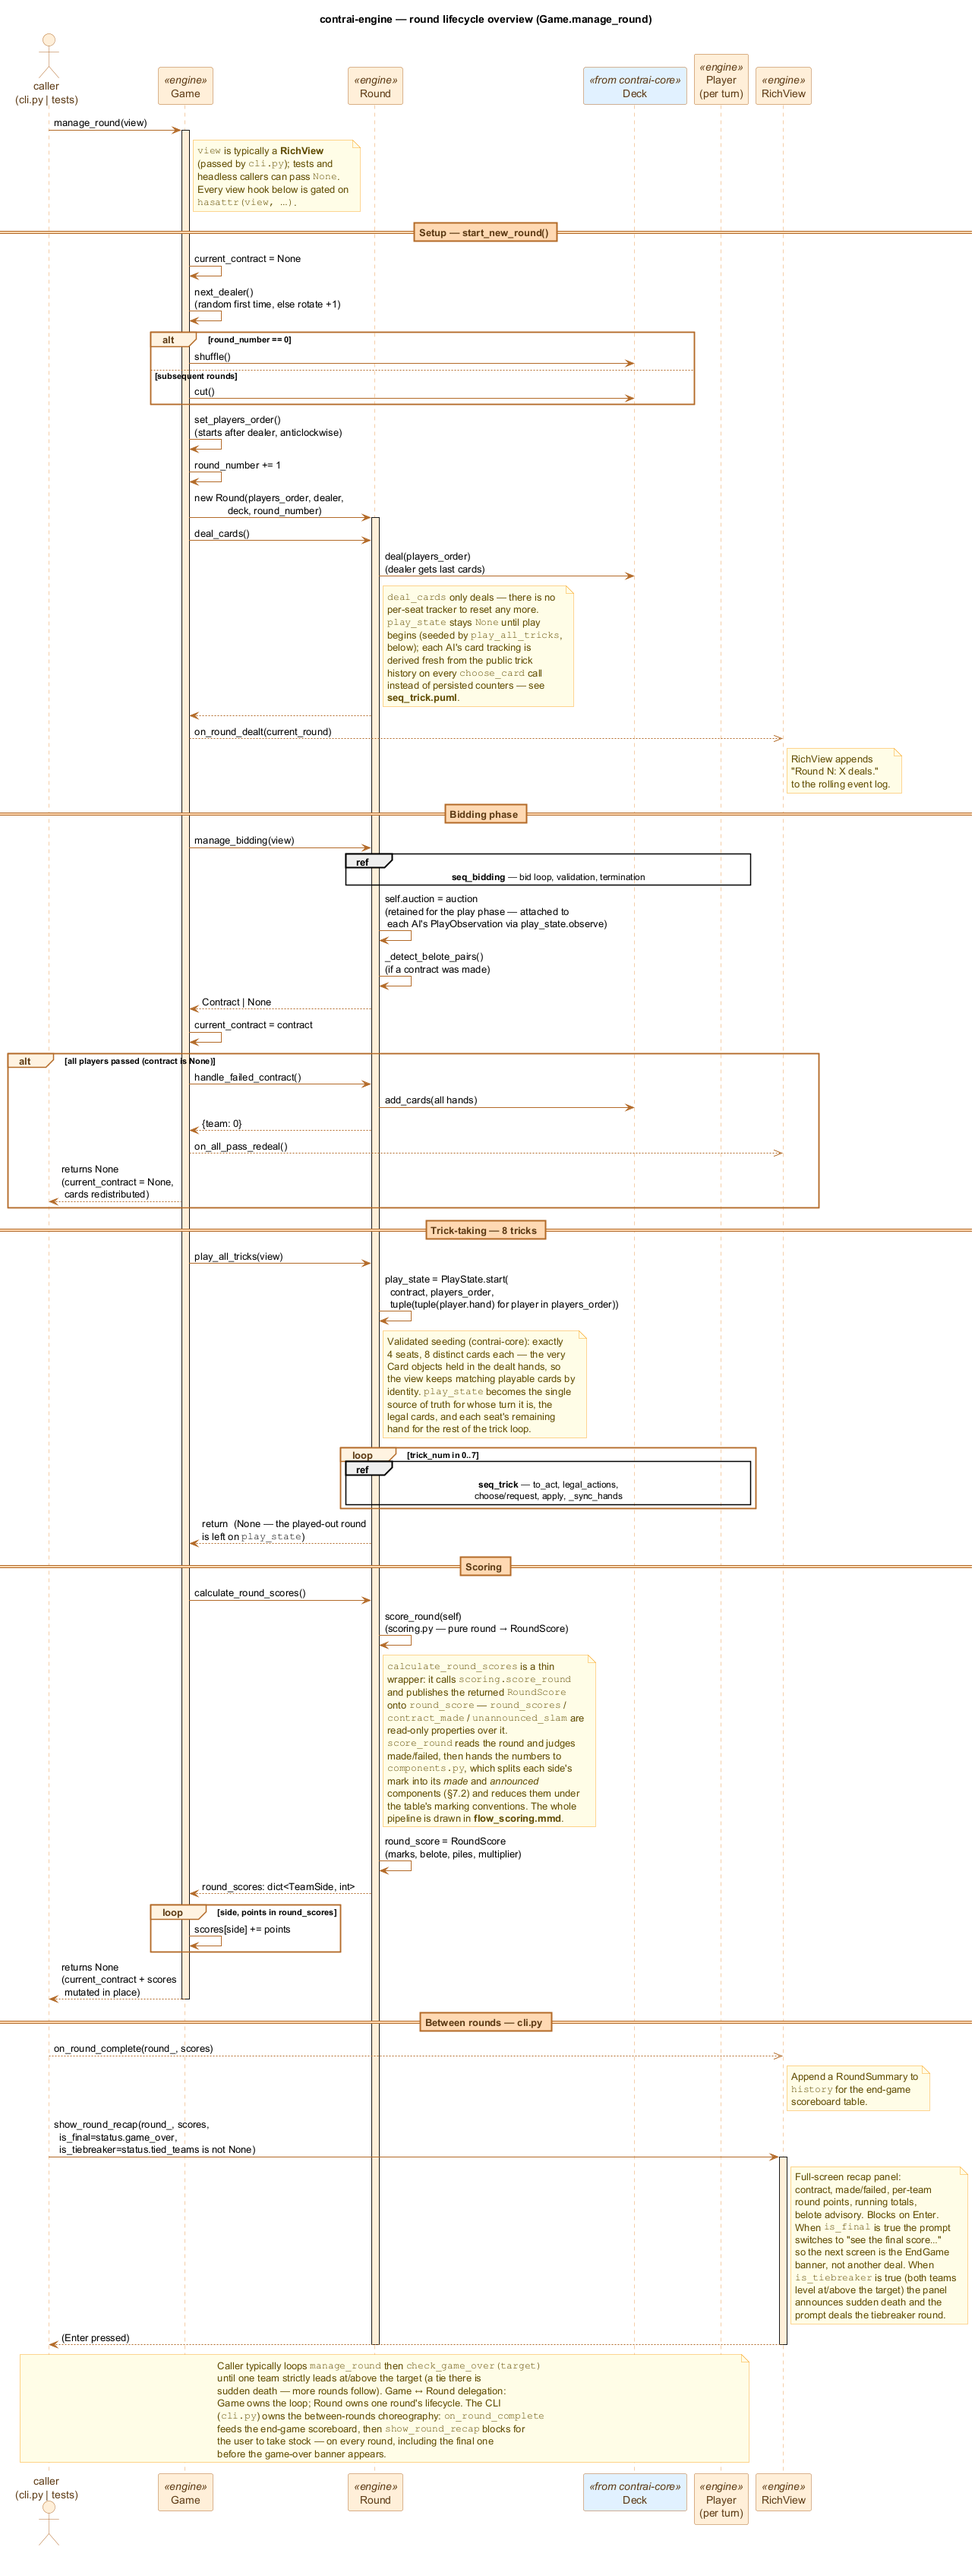
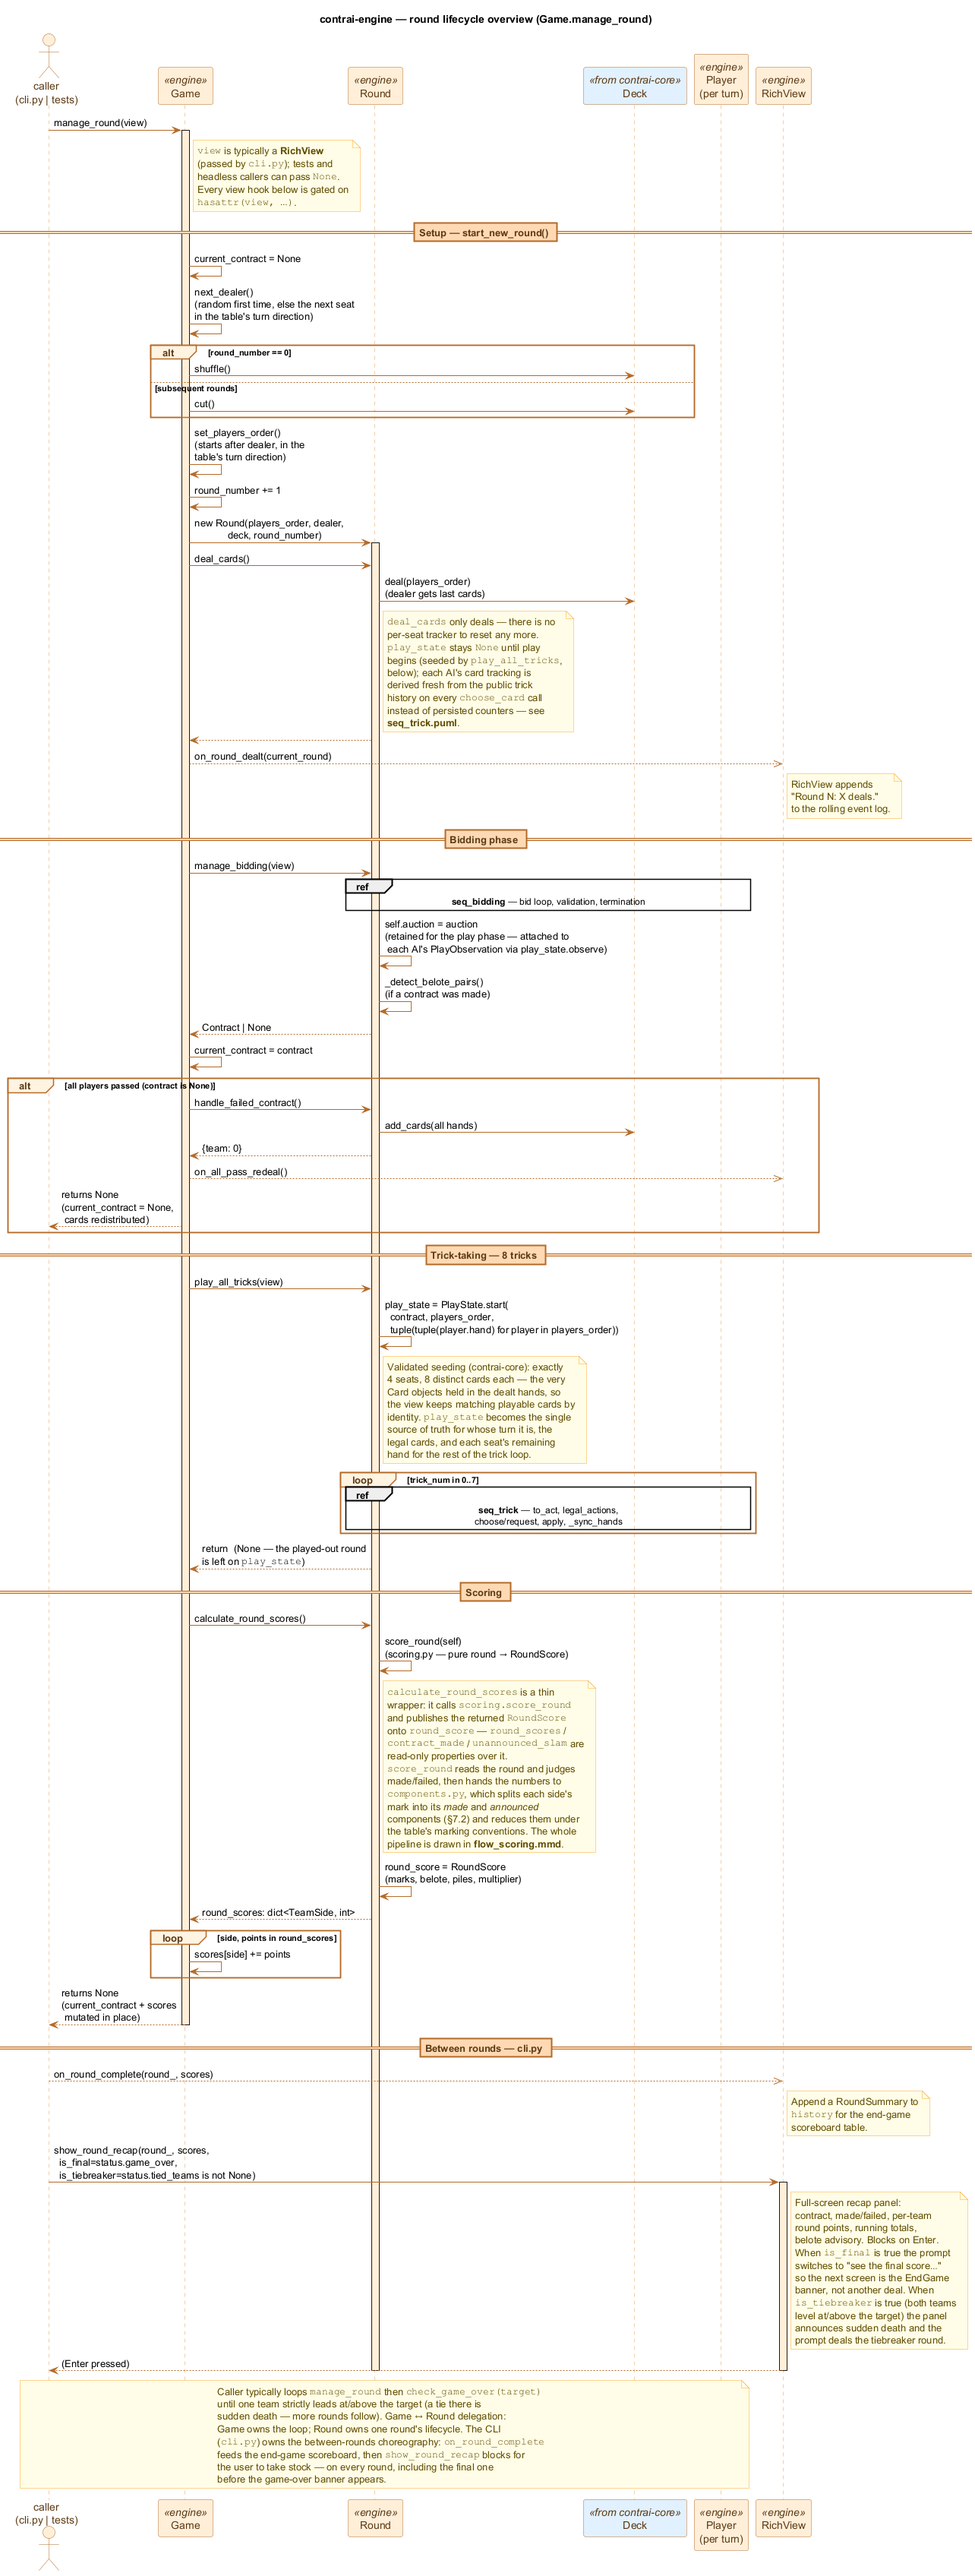
feat(engine): deal and bid the way the table turns
Turn direction is a single §9.1 setting governing dealing, the auction
order, the opening lead and dealer rotation together, so `next_dealer`
and `set_players_order` now walk `Position.next_in(rules.turn_direction)`
instead of doing `(idx ± 1) % 4` against the canonical seating. Nothing
downstream needs a direction of its own: `PlayState` steps forward
through the `players_order` tuple it is handed, which already runs the
table's way, and partners still land at indices 0 and 2 either way.

diff --git a/packages/contrai-engine/tests/test_model/test_game.py b/packages/contrai-engine/tests/test_model/test_game.py
@@ -8,6 +8,7 @@ and the ``manage_round`` lifecycle driven through a ``Round`` double
 """
 
 import logging
+import random
 
 import pytest
 from contrai_engine.debug_state import round_result_lines
@@ -23,7 +24,7 @@ from contrai_core.card import Card
 from contrai_core.contract import Contract
 from contrai_core.hand import Hand
 from contrai_core.position import Position
-from contrai_core.rule_config import RuleConfig
+from contrai_core.rule_config import RuleConfig, TurnDirection
 from contrai_core.types import Suit
 
 class DummyPlayer:
@@ -902,3 +903,99 @@ def test_manage_round_completed_logs_round_result_against_a_genuine_round(
     assert result_messages[0] == "\n".join(
         round_result_lines(game.current_round, game.scores)
     )
+
+
+# ---------------------------------------------------------------------------
+# §9.1 — turn direction
+# ---------------------------------------------------------------------------
+
+
+class TestTurnDirection:
+    """§9.1 — one setting governs dealer rotation and the playing order."""
+
+    def _game(self, players, direction):
+        return Game(
+            players,  # type: ignore[arg-type]
+            rules=RuleConfig(turn_direction=direction),
+        )
+
+    def test_dealer_rotates_anticlockwise_by_default(self, players):
+        game = self._game(players, TurnDirection.ANTICLOCKWISE)
+        game.dealer = game.players_by_position[Position.NORTH]
+        game.next_dealer()
+        assert game.dealer.position is Position.WEST
+
+    def test_dealer_rotates_clockwise_when_the_table_asks(self, players):
+        game = self._game(players, TurnDirection.CLOCKWISE)
+        game.dealer = game.players_by_position[Position.NORTH]
+        game.next_dealer()
+        assert game.dealer.position is Position.EAST
+
+    def test_dealer_rotation_visits_every_seat_once_per_lap(self, players):
+        for direction in TurnDirection:
+            game = self._game(players, direction)
+            game.dealer = game.players_by_position[Position.NORTH]
+            seen = []
+            for _ in range(4):
+                game.next_dealer()
+                seen.append(game.dealer.position)
+            assert len(set(seen)) == 4
+            assert seen[-1] is Position.NORTH
+
+    def test_playing_order_starts_after_the_dealer_anticlockwise(self, players):
+        game = self._game(players, TurnDirection.ANTICLOCKWISE)
+        game.dealer = game.players_by_position[Position.NORTH]
+        game.set_players_order()
+        assert [p.position for p in game.players_order] == [
+            Position.WEST, Position.SOUTH, Position.EAST, Position.NORTH
+        ]
+
+    def test_playing_order_starts_after_the_dealer_clockwise(self, players):
+        game = self._game(players, TurnDirection.CLOCKWISE)
+        game.dealer = game.players_by_position[Position.NORTH]
+        game.set_players_order()
+        assert [p.position for p in game.players_order] == [
+            Position.EAST, Position.SOUTH, Position.WEST, Position.NORTH
+        ]
+
+    def test_the_dealer_speaks_last_either_way(self, players):
+        for direction in TurnDirection:
+            game = self._game(players, direction)
+            game.dealer = game.players_by_position[Position.SOUTH]
+            game.set_players_order()
+            assert game.players_order[-1] is game.dealer
+            assert len({p.position for p in game.players_order}) == 4
+
+    def test_partners_still_alternate_in_a_clockwise_order(self, players):
+        # Seats alternate sides around the table whichever way play runs,
+        # so index 0 and index 2 of the playing order are always partners —
+        # which is what ``PlayState``'s +1 stepping relies on.
+        game = self._game(players, TurnDirection.CLOCKWISE)
+        game.dealer = game.players_by_position[Position.NORTH]
+        game.set_players_order()
+        order = [p.position for p in game.players_order]
+        assert order[0].is_teammate(order[2])
+        assert not order[0].is_teammate(order[1])
+
+
+class TestClockwiseRoundPlaysOut:
+    """A clockwise table runs a full round with no rule broken."""
+
+    def test_a_clockwise_game_plays_a_round_end_to_end(self):
+        random.seed(4242)
+        game = Game(
+            [AiPlayer(seat.value, position=seat) for seat in Position],
+            rules=RuleConfig(turn_direction=TurnDirection.CLOCKWISE),
+        )
+        game.manage_round()
+        if game.current_contract is not None:
+            state = game.current_round.play_state
+            assert state.is_terminal()
+            assert sum(state.card_points_by_side.values()) == 152
+            # Every trick was played in the table's own direction: each
+            # seat's successor within a trick is its clockwise neighbour.
+            seats = [p.position for p in state.players]
+            for index, seat in enumerate(seats):
+                assert seats[(index + 1) % 4] is seat.next_in(
+                    TurnDirection.CLOCKWISE
+                )

diff --git a/packages/contrai-engine/src/contrai_engine/model/game.py b/packages/contrai-engine/src/contrai_engine/model/game.py
@@ -379,23 +379,34 @@ class Game:
         credit = self.last_round_belote.get(side, 0)
         return self.scores[side] - credit >= target_score
 
-    def next_dealer(self):
+    def next_dealer(self) -> None:
+        """Pass the deal to the next seat along, in the table's direction.
+
+        The first round's dealer is drawn at random; every later round
+        hands the deal to the dealer's successor under
+        ``rules.turn_direction`` — to the dealer's right when play runs
+        anticlockwise (contree-domain.md §2, §4).
         """
-        Sets the next dealer for the next round (player to the left of current dealer, anticlockwise).
-        """
+
         if self.dealer is None:
             self.dealer = random.choice(self.players)
         else:
-            idx = self.players.index(self.dealer)
-            self.dealer = self.players[(idx + 1) % 4]
+            successor = self.dealer.position.next_in(self.rules.turn_direction)
+            self.dealer = self.players_by_position[successor]
 
-    def set_players_order(self):
+    def set_players_order(self) -> None:
+        """Order the seats for this round, starting after the dealer.
+
+        The player after the dealer in the table's direction speaks first
+        and leads trick 1 (§5.1, §6); the dealer therefore acts last and
+        is dealt to last. Walking :meth:`~contrai_core.Position.next_in`
+        rather than indexing the canonical seating is what keeps the one
+        direction setting governing the deal, the auction and the lead
+        together.
         """
-        Sets the players order starting with the player after the dealer (anticlockwise order).
-        """
-        # Reset players order and start with next player after dealer (anticlockwise order)
-        dealer_idx = self.players.index(self.dealer)
+
         self.players_order = []
-        for i in range(4):
-            player_idx = (dealer_idx + 1 + i) % 4
-            self.players_order.append(self.players[player_idx])
+        seat = self.dealer.position
+        for _ in range(4):
+            seat = seat.next_in(self.rules.turn_direction)
+            self.players_order.append(self.players_by_position[seat])

diff --git a/docs/engine/index.md b/docs/engine/index.md
@@ -261,6 +261,12 @@ Two things keep it out of the way of everything else. It runs *after* belote is 
 ```mermaid format="svg" source="flow_scoring.mmd"
 ```
 
+## Table options
+
+The `RuleConfig` a `Game` is built under is threaded down to `Round` and `PlayState` and read wherever the rule it names actually lands — no knob is copied, cached or re-derived. The flow and card-play switches are these.
+
+**Turn direction** (§9.1) is *one* setting governing four things at once: who is dealt to, who speaks first in the auction, who leads trick 1, and who deals next. `Game.next_dealer` and `Game.set_players_order` both walk `Position.next_in(rules.turn_direction)` rather than doing `(index ± 1) % 4` against the roster, which is what keeps the four from ever disagreeing. Nothing downstream needs a direction of its own: `PlayState` steps `+1` through the `players` tuple it is handed, and that tuple *is* `players_order`, already running the table's way. Partners still land at indices 0 and 2 either way round, because seats alternate sides whichever direction play runs — which is exactly the invariant `PlayState`'s stepping relies on. `Position.partner`, `.opponents` and `.team_side` therefore take no direction parameter at all.
+
 ## Open work
 
 - The round test suite mirrors the `model/round/` split (sharing the `players` fixture in `tests/test_model/conftest.py`): `test_components.py` pins the §7.2 grids as pure arithmetic — every table the domain reference prints, reproduced as a parametrize list, with no `Round` and no `PlayState` in sight; `test_round_scoring.py` covers the `scoring.score_round` grid (numeric / unannounced-Slam / doubled / Slam-family) plus a direct `RoundScore`/`score_round` purity check and the `Round.round_score` publishing surface; `test_round.py` keeps the orchestrator concerns — `play_trick`'s `IllegalPlayError` raise on an illegal card (`TestPlayTrickRejectsIllegalCard`), the lazy `PlayState` seeding guard and the validated `play_all_tricks` seeding (`TestPlayStateSeeding`), `_sync_hands` mirroring and card-identity flow-through (`TestSyncHandsMirrorsPlayState`, `TestCardIdentityFlowsFromSeed`), the retained auction (`TestAuctionRetention`), the `PlayObservation` each AI seat is handed (`TestPlayTrickHandsObservation`), the belote tracking helpers, and the auction-driven integration test that the human seat is never prompted when their partner has doubled (`TestManageBiddingAutoPasses`); and `test_round_lifecycle.py` backfills the full end-to-end path — `deal_cards` → `manage_bidding` → `play_all_tricks` → `calculate_round_scores` — on a fully stacked deck with four `AiPlayer` seats and no view, pinning both a scoring invariant and a concrete regression split.

diff --git a/CHANGELOG.md b/CHANGELOG.md
@@ -26,6 +26,7 @@ All four workspace packages (`contrai-core`, `contrai-engine`, `contrai-analyzer
 - (core) `Position.next_in(direction)` — the seat's successor either way round the table; `next` stays the anticlockwise shorthand.
 - (core) `bookable_values(rules)` and `Auction` gate the Slam family on `solo_slam_available`, `slam_can_be_doubled` and `solo_slam_can_be_doubled`. See [core docs](docs/core/index.md).
 - (core) `under_trump_exemption` — a void seat facing an unbeatable opponent cut may discard instead of under-trumping. See [core docs](docs/core/index.md).
+- (engine) `turn_direction` — dealer rotation, bidding order and the opening lead all run clockwise when the table asks. See [engine docs](docs/engine/index.md).
 
 ### Changed
 
